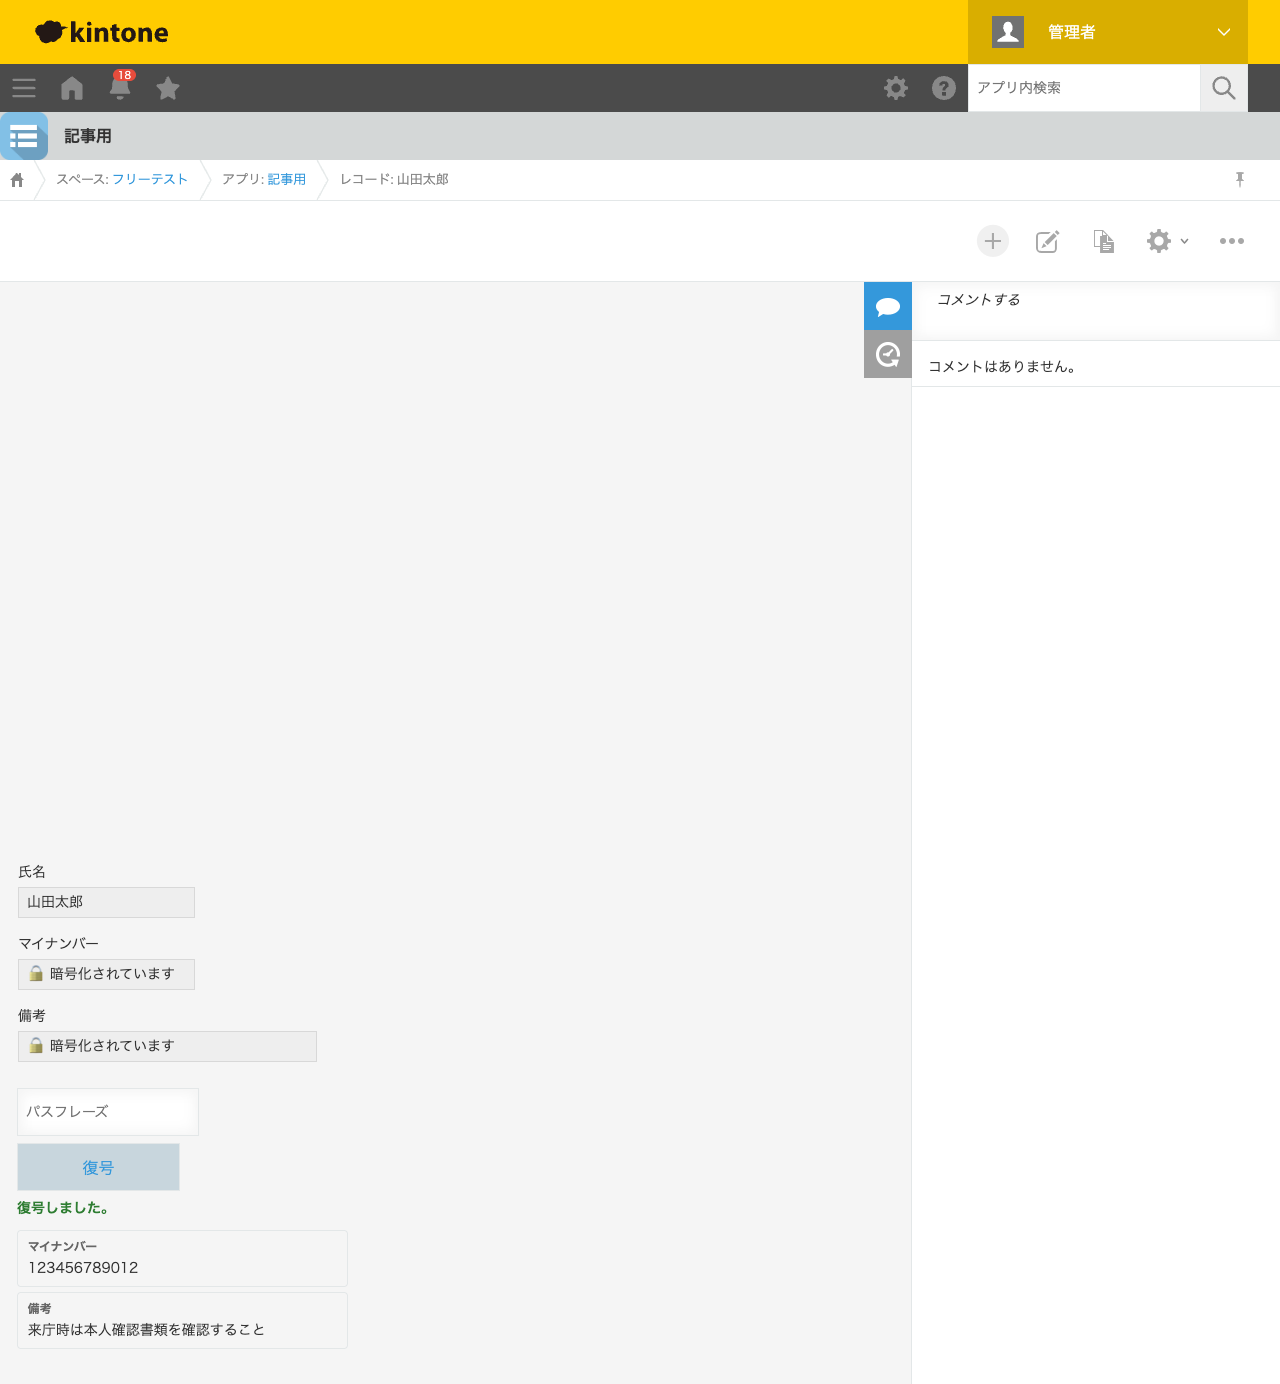
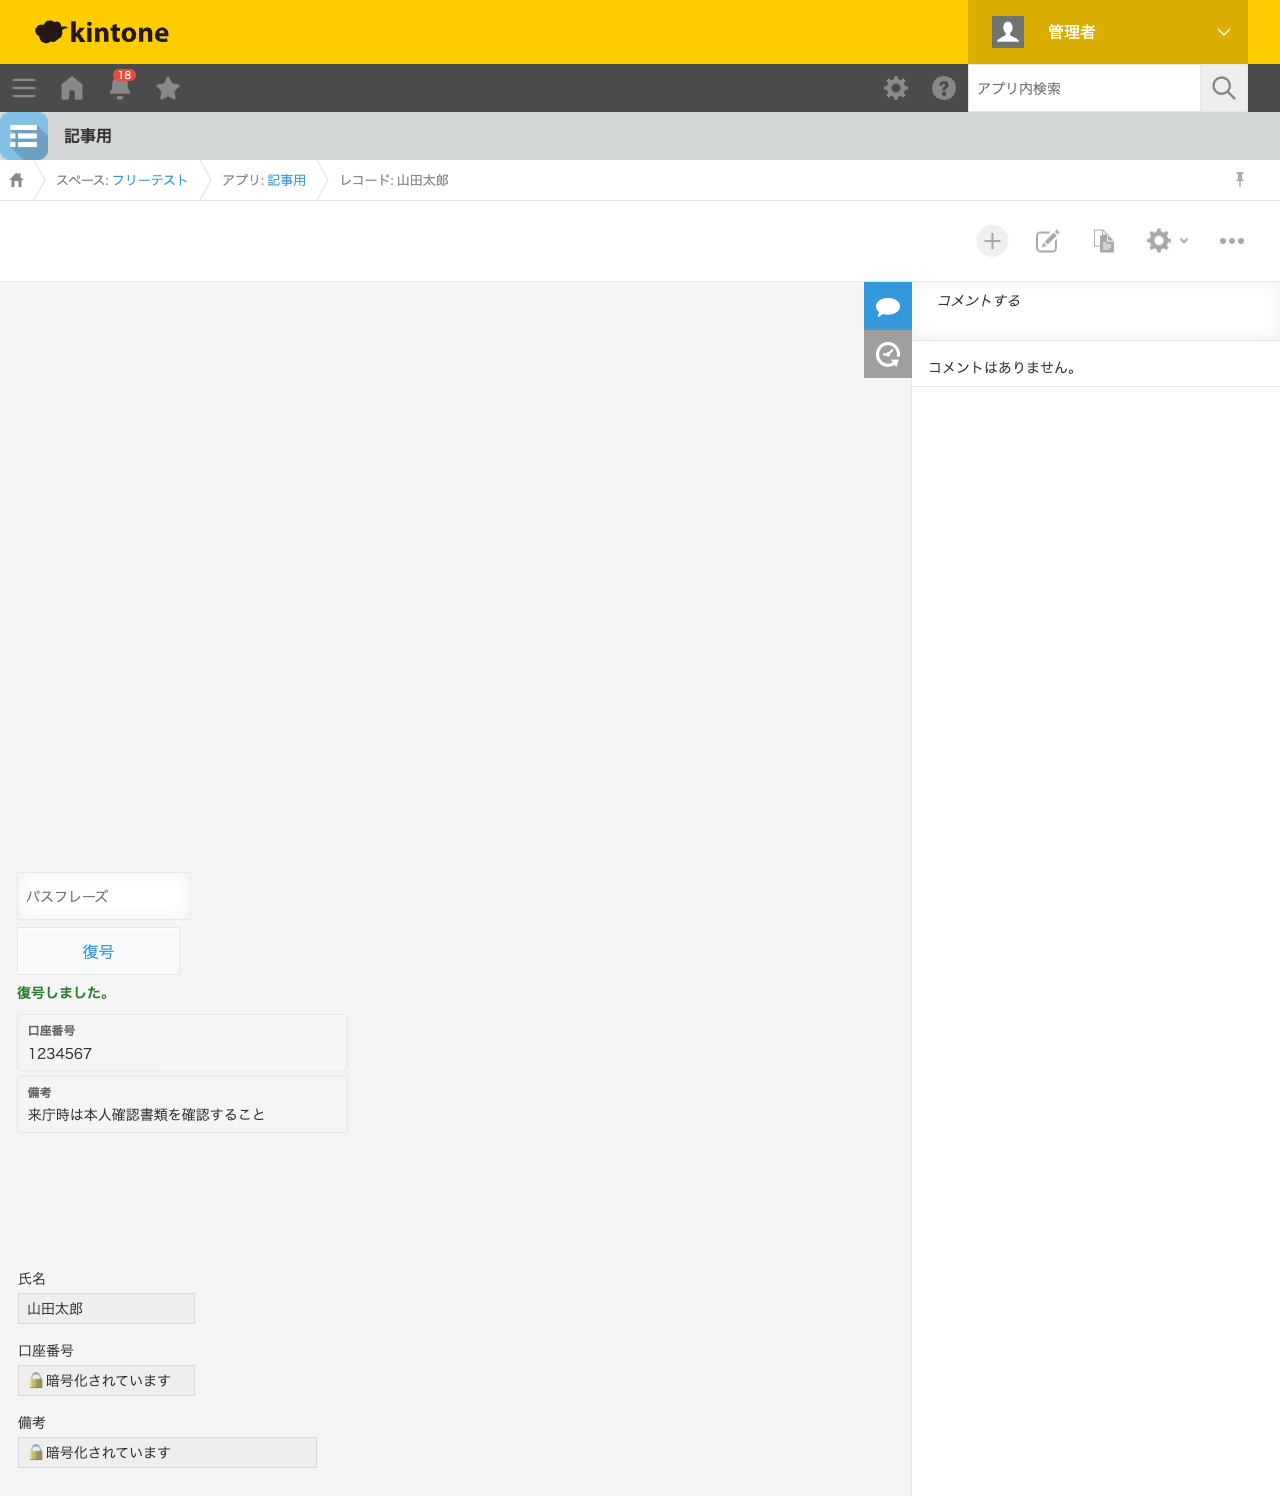
field_encryption: replace マイナンバー example with 口座番号, add compliance note
マイナンバー(個人番号)は番号法等の法令要件が別途あり、暗号化だけでは
要件を満たせるとは限らないため、プラグインページ・記事のユースケース例から
マイナンバーを外して口座番号に差し替え、セキュリティ担当への確認を促す
注意書きを追加した。articles/field-encryption/setup.jsも口座番号での
再現用に更新し、新しいスクリーンショットで記事を差し替えた。

diff --git a/site/articles/field-encryption/index.html b/site/articles/field-encryption/index.html
@@ -13,7 +13,7 @@
 <meta charset="UTF-8">
 <meta name="viewport" content="width=device-width, initial-scale=1">
 <title>kintoneで個人情報を暗号化して保存する方法（無料） | GovAppsプラグイン</title>
-<meta name="description" content="kintoneのマイナンバーのような個人情報を、REST APIからも読み取れない形で暗号化して保存したい場合の実現方法を、無料プラグインの実際の設定画面・暗号化/復号結果つきで解説します。">
+<meta name="description" content="kintoneの口座番号のような機微な個人情報を、REST APIからも読み取れない形で暗号化して保存したい場合の実現方法を、無料プラグインの実際の設定画面・暗号化/復号結果つきで解説します。">
 <link rel="stylesheet" href="../../css/51-modern-default.css">
 <link rel="stylesheet" href="../../css/style.css">
 </head>
@@ -44,10 +44,16 @@
 <div class="plugin-hero">
   <h1>kintoneで個人情報を暗号化して保存する方法（無料）</h1>
   <p class="plugin-lead">
-    マイナンバーのような機微な個人情報をkintoneで扱う場合、画面表示を隠す「マスキング」だけでは
+    口座番号のような機微な個人情報をkintoneで扱う場合、画面表示を隠す「マスキング」だけでは
     不十分です。kintoneのREST APIは保存されている生の値をそのまま返すため、マスキングは値そのものを
     守っていません。この記事では、無料プラグインでフィールドの値そのものをブラウザ内で暗号化して
     保存する方法を、実際の設定画面と暗号化・復号結果つきで解説します。
+  </p>
+  <p class="plugin-lead">
+    <strong>マイナンバー(個人番号)を取り扱う場合の注意:</strong> マイナンバーの利用・保管には
+    番号法(マイナンバー法)等に基づく別途の法令要件があり、本プラグインによる暗号化だけで
+    これらの要件を満たせるとは限りません。マイナンバーをkintoneで扱うかどうか、扱う場合の方法は、
+    必ず組織のセキュリティ担当・個人情報保護担当にご確認のうえご判断ください。
   </p>
   <p class="author-bio">
     執筆者: <a href="/about#author">羽鳥達郎</a>(<a href="https://www.pons-llc.com" target="_blank" rel="noopener">合同会社Pons</a>) ／
@@ -59,7 +65,7 @@
 <section class="plugin-section">
   <h2>こんな方におすすめ</h2>
   <ul class="recommend-list">
-    <li>マイナンバーのような機微な個人情報を、値そのものとして保護して保存したい</li>
+    <li>口座番号のような機微な個人情報を、値そのものとして保護して保存したい</li>
     <li>「kintone 暗号化」「kintone 個人情報 暗号化」を探している</li>
     <li>画面のマスキングだけでなく、REST API経由でも平文が読めない状態にしたい</li>
     <li>暗号化・復号のたびにパスフレーズを入力する運用でも構わない</li>
@@ -110,12 +116,12 @@
   <p>
     <a href="/plugins/field_encryption/">フィールド暗号化プラグイン</a>は、暗号化対象フィールド・
     復号ボタンの設置場所・パスフレーズの最小文字数を設定するだけで使えます。今回は「氏名」
-    (暗号化対象外)・「マイナンバー」「備考」(いずれも暗号化対象)を持つアプリで設定しました。
+    (暗号化対象外)・「口座番号」「備考」(いずれも暗号化対象)を持つアプリで設定しました。
   </p>
   <ol class="setup-steps">
     <li>
       <strong>暗号化対象フィールドを選ぶ</strong><br>
-      文字列(1行)・文字列(複数行)のフィールドから選べます。今回は「マイナンバー」「備考」を
+      文字列(1行)・文字列(複数行)のフィールドから選べます。今回は「口座番号」「備考」を
       選びました。
     </li>
     <li>
@@ -128,25 +134,25 @@
     </li>
   </ol>
   <div class="screenshot-frame">
-    <img src="screenshots/config-screen.png" alt="フィールド暗号化プラグインの設定画面。暗号化対象フィールドに「マイナンバー」「備考」をチェックし、復号ボタンを設置するスペースフィールドとパスフレーズの最小文字数(8)を設定した状態のスクリーンショット。" loading="lazy">
+    <img src="screenshots/config-screen.png" alt="フィールド暗号化プラグインの設定画面。暗号化対象フィールドに「口座番号」「備考」をチェックし、復号ボタンを設置するスペースフィールドとパスフレーズの最小文字数(8)を設定した状態のスクリーンショット。" loading="lazy">
   </div>
 </section>
 
 <section class="plugin-section">
   <h2>実行結果: 保存時に自動暗号化され、パスフレーズでのみ復号できる</h2>
   <p>
-    レコード追加画面で氏名・マイナンバー・備考を入力すると、パスフレーズの設定欄が表示されます。
-    パスフレーズを入力して保存すると、<strong>マイナンバー・備考の値はレコード保存時にブラウザ内で
+    レコード追加画面で氏名・口座番号・備考を入力すると、パスフレーズの設定欄が表示されます。
+    パスフレーズを入力して保存すると、<strong>口座番号・備考の値はレコード保存時にブラウザ内で
     AES-256-GCM暗号化されます。</strong>REST APIで取得した生の値を確認したところ、
-    <code>FE1:</code>接頭辞のbase64文字列(暗号文)になっており、入力した「123456789012」という
-    数字列は一切含まれていませんでした。
+    <code>FE1:</code>接頭辞のbase64文字列(暗号文)になっており、入力した口座番号の数字列は
+    一切含まれていませんでした。
   </p>
   <p>
     詳細画面を開くと、暗号化済みのフィールドは「🔒 暗号化されています」という表示に置き換わり、
     パスフレーズを入力しない限り値は読めません。
   </p>
   <div class="screenshot-frame">
-    <img src="screenshots/record-masked.png" alt="レコード詳細画面。氏名「山田太郎」は通常表示、マイナンバー・備考は「🔒 暗号化されています」に置き換わり、下にパスフレーズ入力欄と「復号」ボタンが表示されている状態のスクリーンショット。" loading="lazy">
+    <img src="screenshots/record-masked.png" alt="レコード詳細画面。氏名「山田太郎」は通常表示、口座番号・備考は「🔒 暗号化されています」に置き換わり、パスフレーズ入力欄と「復号」ボタンが表示されている状態のスクリーンショット。" loading="lazy">
   </div>
   <p>
     正しいパスフレーズを入力して「復号」を押すと、<strong>入力欄の下に平文の値が表示されます。</strong>
@@ -154,7 +160,7 @@
     パスフレーズを入力した場合はエラーになり、平文が漏れることはありません。
   </p>
   <div class="screenshot-frame">
-    <img src="screenshots/record-decrypted.png" alt="レコード詳細画面。「復号しました。」というメッセージとともに、マイナンバー「123456789012」、備考「来庁時は本人確認書類を確認すること」が平文で表示されている状態のスクリーンショット。" loading="lazy">
+    <img src="screenshots/record-decrypted.png" alt="レコード詳細画面。「復号しました。」というメッセージとともに、口座番号「1234567」、備考「来庁時は本人確認書類を確認すること」が平文で表示されている状態のスクリーンショット。" loading="lazy">
   </div>
 </section>
 

diff --git a/articles/field-encryption/setup.js b/articles/field-encryption/setup.js
@@ -2,7 +2,7 @@
 
 // articles/field-encryption/setup.js
 // 記事「kintoneで個人情報を暗号化して保存する方法」用に ARTICLE_APP_ID を白紙に戻し、
-// field_encryption プラグインで「マイナンバー・備考フィールドを暗号化して保存し、
+// field_encryption プラグインで「口座番号・備考フィールドを暗号化して保存し、
 // 詳細画面でパスフレーズ入力により復号する」デモを実行してスクリーンショットを撮る
 // (scripts/templates/article-setup.template.js のコピー)。
 //
@@ -16,7 +16,7 @@ const kintoneAdmin = require('../../scripts/kintone-admin');
 
 const ARTICLE_SLUG = 'field-encryption';
 const NAME_FIELD_CODE = '氏名';
-const NUMBER_FIELD_CODE = 'マイナンバー';
+const NUMBER_FIELD_CODE = '口座番号';
 const NOTE_FIELD_CODE = '備考';
 const SPACE_ELEMENT_ID = 'fe_article_decrypt_space';
 const PASSPHRASE = 'k1ntone-fe-article-2026!';
@@ -68,7 +68,7 @@ const main = async () => {
     await kintoneAdmin.addPlugin(env, appId, pluginId);
     await kintoneAdmin.deployApp(env, appId);
 
-    // 設定画面: 暗号化対象フィールド=マイナンバー・備考、復号ボタン設置スペース、最小文字数=8。
+    // 設定画面: 暗号化対象フィールド=口座番号・備考、復号ボタン設置スペース、最小文字数=8。
     await common.openPluginConfig(page, env, appId, pluginId);
     const checkboxHandles = await page.$$('#js-target-fields input[type=checkbox]');
     for (const handle of checkboxHandles) {
@@ -99,7 +99,7 @@ const main = async () => {
     ]);
     await kintoneAdmin.deployApp(env, appId);
 
-    // レコード追加画面へ実際のユーザー導線で遷移し、氏名・マイナンバー・備考を入力、
+    // レコード追加画面へ実際のユーザー導線で遷移し、氏名・口座番号・備考を入力、
     // パスフレーズを設定して保存する。
     await page.goto(`https://${env.KINTONE_DOMAIN}/k/${appId}/`, {
       waitUntil: 'networkidle0',
@@ -115,7 +115,7 @@ const main = async () => {
       (nameCode, numberCode, noteCode) => {
         const current = kintone.app.record.get().record;
         current[nameCode].value = '山田太郎';
-        current[numberCode].value = '123456789012';
+        current[numberCode].value = '1234567';
         current[noteCode].value = '来庁時は本人確認書類を確認すること';
         kintone.app.record.set({ record: current });
       },
@@ -128,13 +128,16 @@ const main = async () => {
     await page.type('.fe-passphrase-input', PASSPHRASE);
     await page.type('.fe-passphrase-confirm-input', PASSPHRASE);
 
-    await Promise.all([
-      page.waitForFunction(() => !location.href.includes('mode=edit')),
-      page.click('button.gaia-ui-actionmenu-save'),
-    ]);
-    await page
-      .waitForNetworkIdle({ idleTime: 500, timeout: 15000 })
-      .catch(() => {});
+    // 蓄積したスペーサーフィールドでページが縦に長くなり、保存ボタンの座標に固定ヘッダーが
+    // 重なってしまうことがあるため、座標クリックではなくDOM要素へ直接click()する。
+    const saveButtonHandle = await page.$('button.gaia-ui-actionmenu-save');
+    await saveButtonHandle.evaluate((el) => el.click());
+
+    // PBKDF2(600,000回反復)の鍵導出に数秒かかることがあるため、レコード作成完了(URLに
+    // record=が付く)まで長めに待つ。
+    await page.waitForFunction(() => location.href.includes('record='), {
+      timeout: 60000,
+    });
 
     const url = new URL(page.url());
     const recordId = url.hash.match(/record=(\d+)/)[1];
@@ -145,7 +148,7 @@ const main = async () => {
       id: recordId,
     });
     const ciphertext = record.record[NUMBER_FIELD_CODE].value;
-    if (!ciphertext.startsWith('FE1:') || ciphertext.includes('123456789012')) {
+    if (!ciphertext.startsWith('FE1:') || ciphertext.includes('1234567')) {
       throw new Error(`想定外の保存値: ${ciphertext}`);
     }
     console.log('ciphertext ok:', ciphertext.slice(0, 40) + '...');

diff --git a/site/plugins/field_encryption/index.html b/site/plugins/field_encryption/index.html
@@ -68,7 +68,7 @@
   <ul class="recommend-list">
     <li>kintoneで機密情報を暗号化して保存したい</li>
     <li>「kintone フィールド 暗号化」を探している</li>
-    <li>マイナンバーや個人情報を保護して保存したい</li>
+    <li>個人情報や機密情報を保護して保存したい</li>
   </ul>
 </section>
 
@@ -76,7 +76,7 @@
   <h2>ユースケース</h2>
   <div class="accordion-item">
     <button type="button" class="accordion-header" aria-expanded="true" aria-controls="usecase-1">
-      <span>マイナンバーや口座番号など、特に機微な情報をREST API越しにも保護したい</span>
+      <span>口座番号など、特に機微な情報をREST API越しにも保護したい</span>
       <span class="accordion-icon">▶</span>
     </button>
     <div class="accordion-panel" id="usecase-1">
@@ -112,6 +112,7 @@
     <li>保存後、アプリを更新する(kintoneのアプリ設定は保存しただけでは反映されず、更新〈デプロイ〉して初めてレコード画面に反映されます)。</li>
   </ol>
   <p class="download-note">新規作成画面でパスフレーズを設定すると、対象フィールドが保存時に自動で暗号化されます。対象フィールドが空欄のままならパスフレーズの入力は不要です。パスフレーズは1レコードにつき1つで、新規作成時に設定したパスフレーズが以後もそのレコードの唯一の正しいパスフレーズになります(変更する機能はありません)。<strong>パスフレーズを紛失した場合、暗号化されたデータは復号する手段がなく、永久に読めなくなります。</strong>パスフレーズの管理は利用者ご自身の責任で行ってください。</p>
+  <p class="download-note"><strong>マイナンバー(個人番号)を取り扱う場合の注意:</strong> マイナンバーの利用・保管には番号法(マイナンバー法)等に基づく別途の法令要件があり、本プラグインによる暗号化だけでこれらの要件を満たせるとは限りません。マイナンバーをkintoneで扱うかどうか、扱う場合の方法は、必ず組織のセキュリティ担当・個人情報保護担当にご確認のうえご判断ください。</p>
 </section>
 
 <section class="plugin-section">
